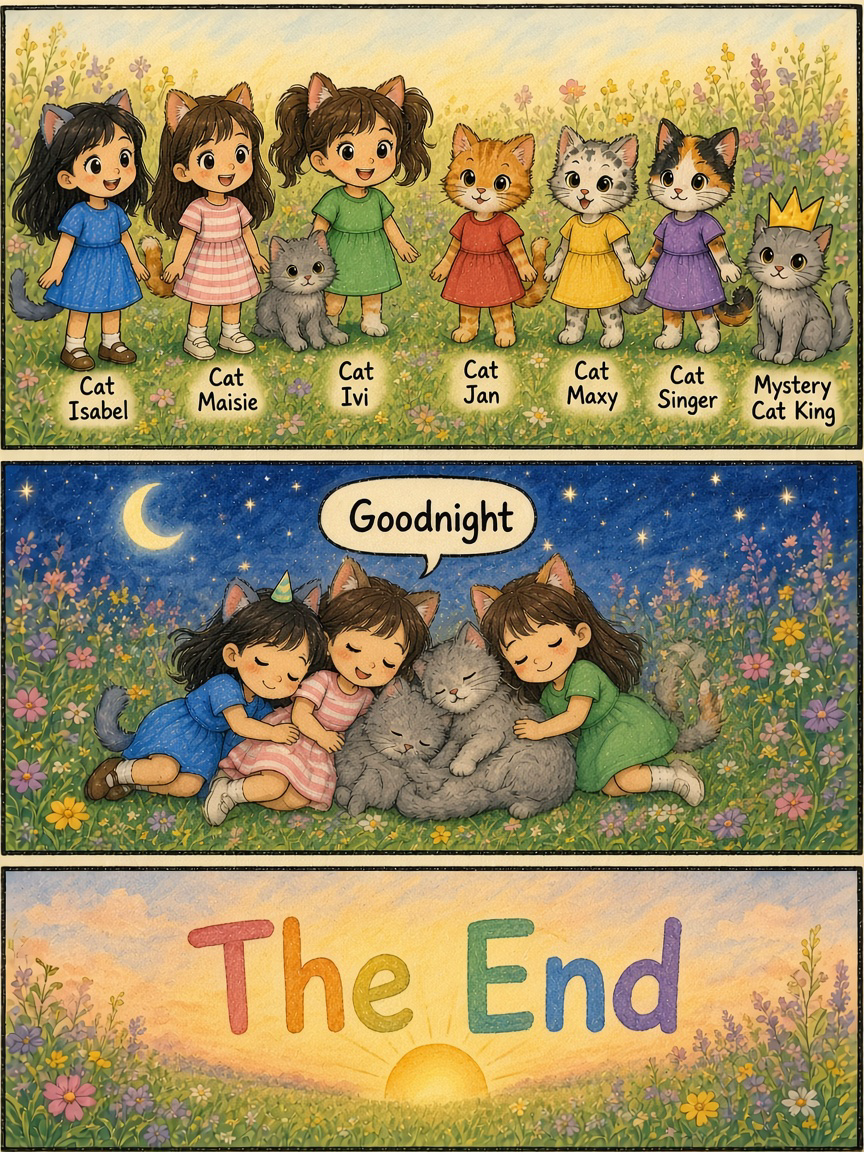
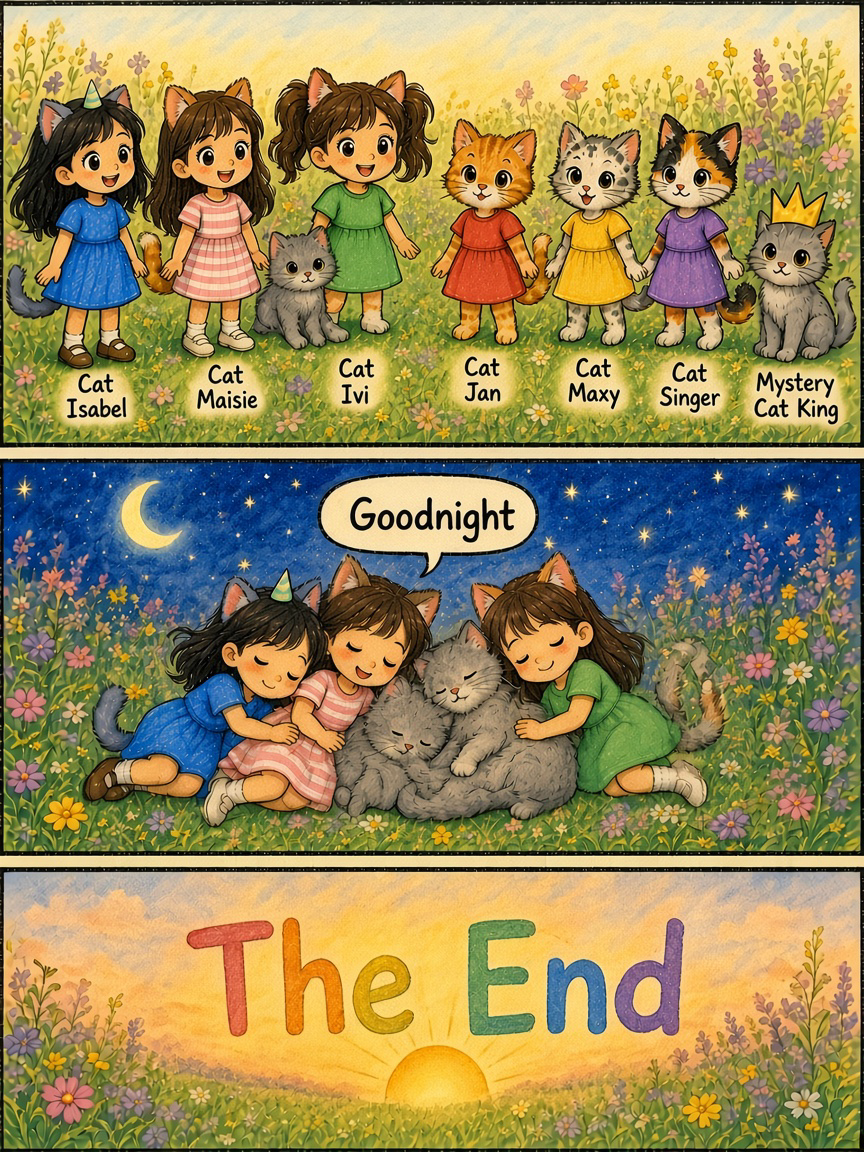
Fix cats-8 Soft PASS: Isabel horn on end lineup
Replace cats-8.png from corrected page-08 art and bump app.js to v=49.

diff --git a/index.html b/index.html
@@ -105,6 +105,6 @@
     </div>
   </main>
 
-  <script src="app.js?v=48"></script>
+  <script src="app.js?v=49"></script>
 </body>
 </html>
